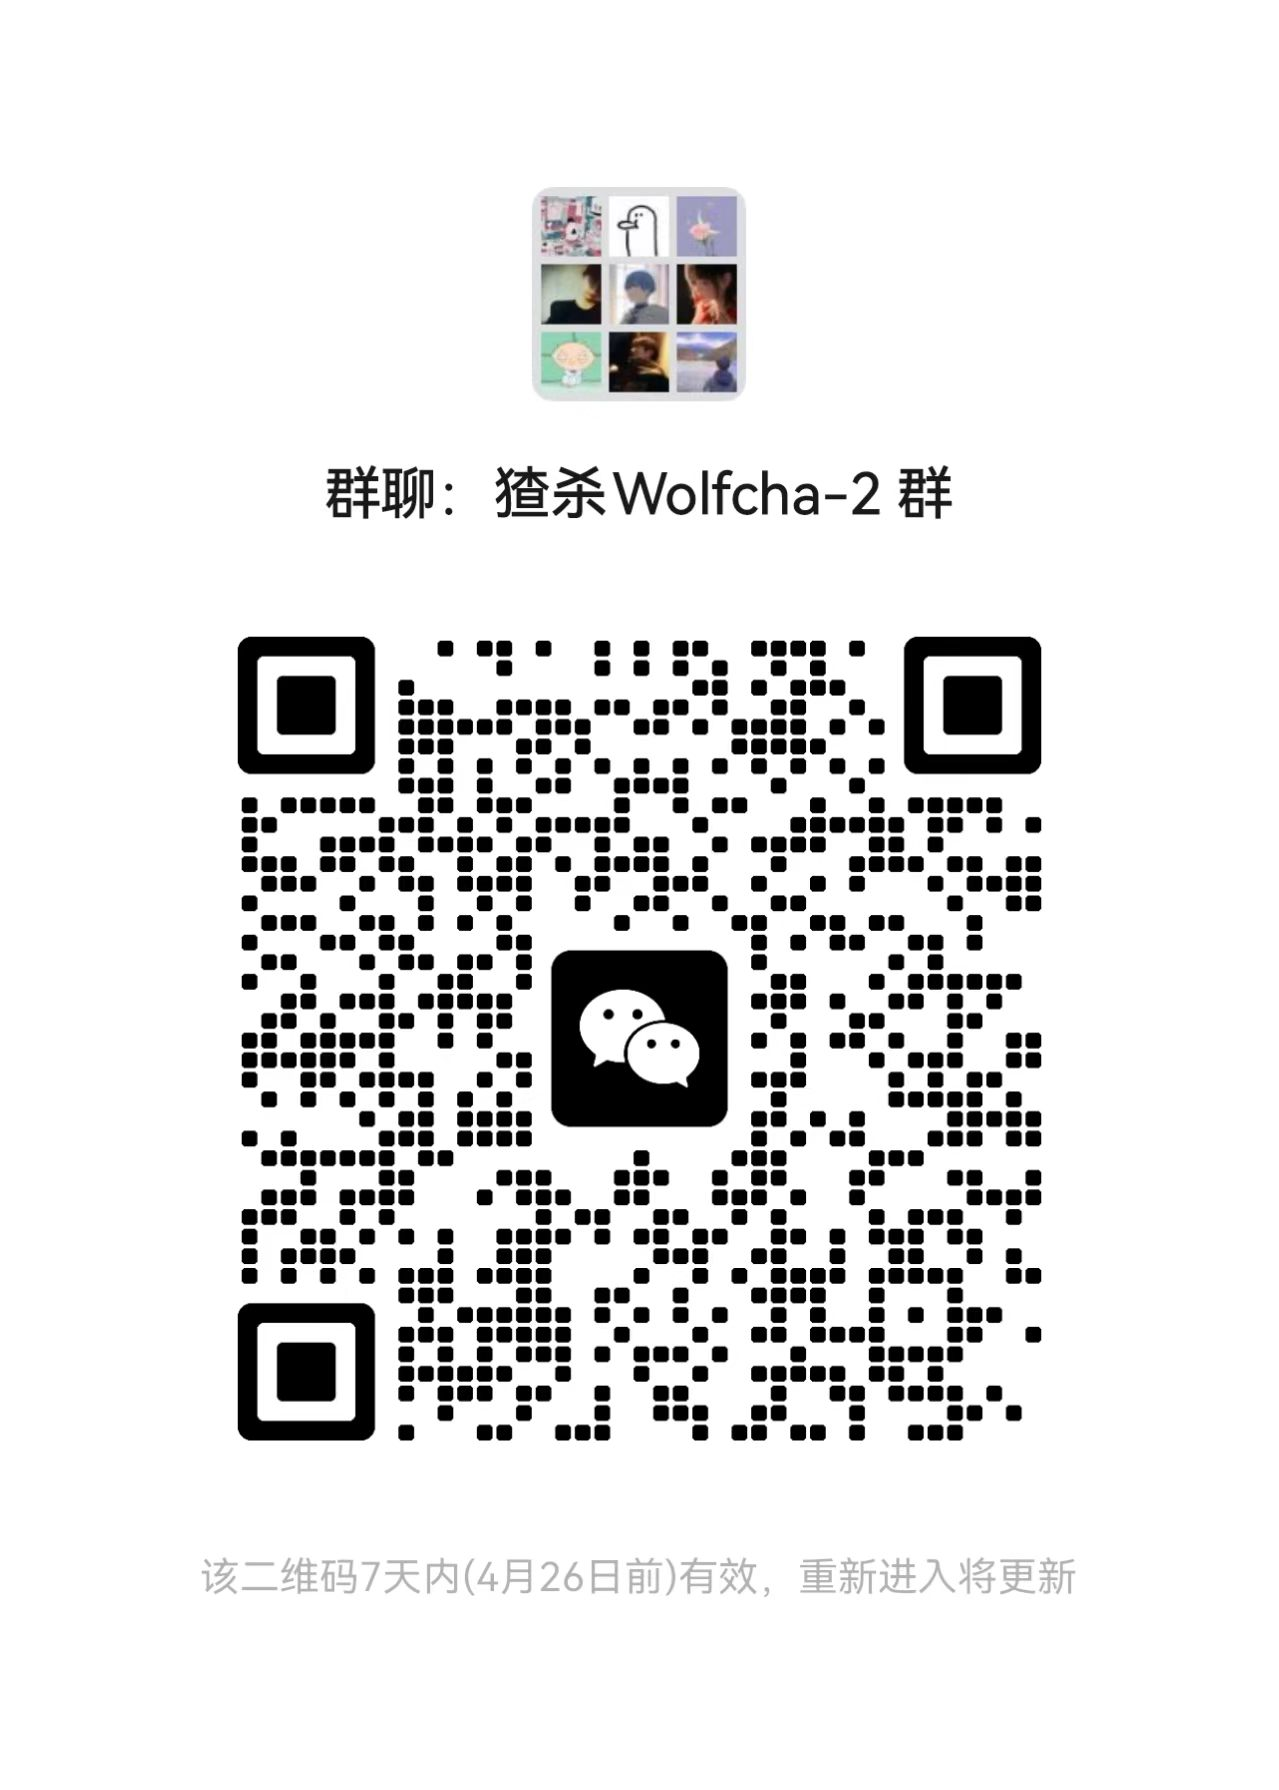
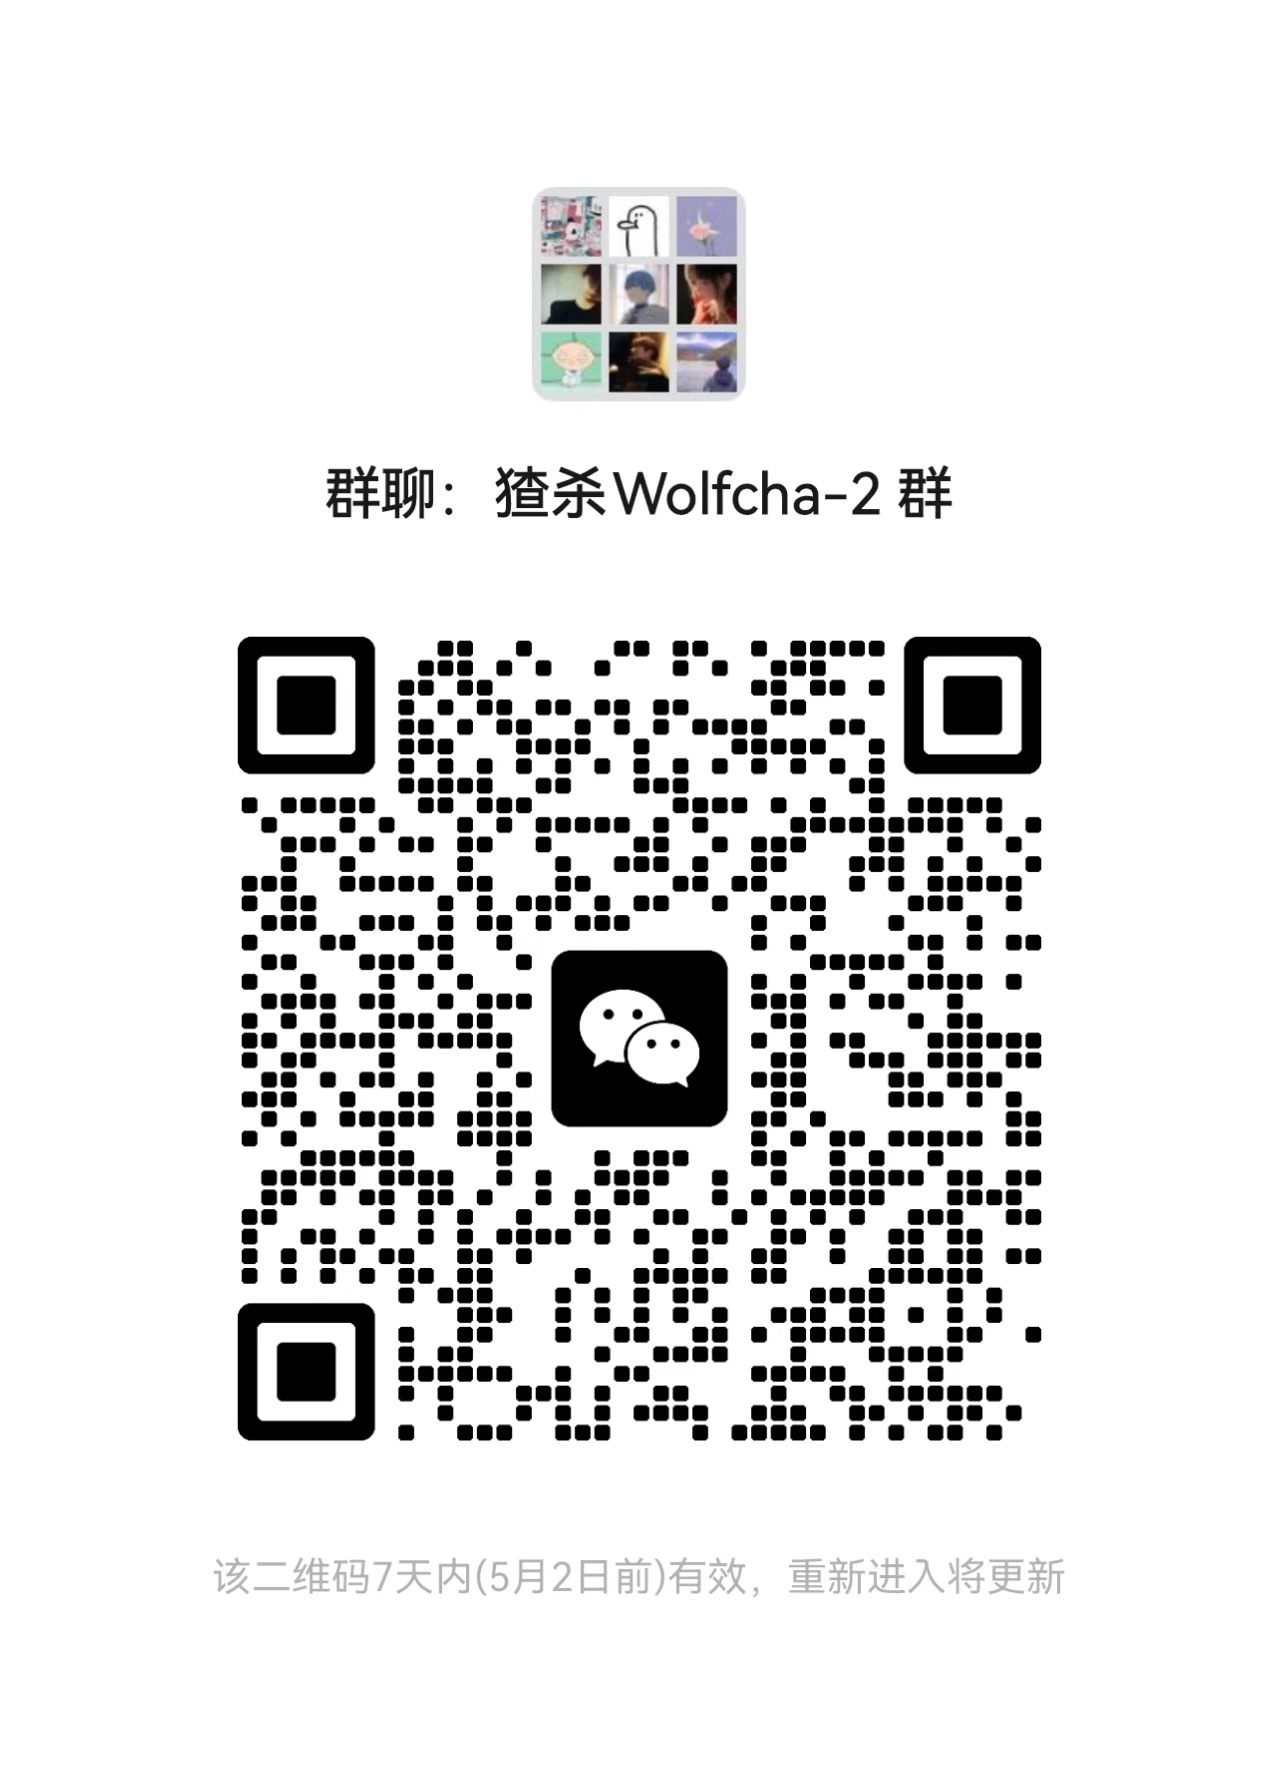
更新二维码，zenmux自定义key新增deepseek-v4-pro和deepseek/deepseek-v4-flash

diff --git a/src/types/game.ts b/src/types/game.ts
@@ -250,6 +250,8 @@ export const MODEL_IDS = {
     claudeHaiku45: "anthropic/claude-haiku-4.5",
     claudeSonnet45: "anthropic/claude-sonnet-4.5",
     claudeOpus45: "anthropic/claude-opus-4.5",
+    deepseekV4Pro: "deepseek/deepseek-v4-pro",
+    deepseekV4Flash: "deepseek/deepseek-v4-flash",
     grok4: "x-ai/grok-4",
     glm47: "z-ai/glm-4.7",
     minimaxM21: "minimax/minimax-m2.1",
@@ -322,6 +324,8 @@ export const ALL_MODELS: ModelRef[] = [
   { provider: "dashscope", model: MODEL_IDS.dashscope.deepseek },
   { provider: "zenmux", model: MODEL_IDS.zenmux.geminiFlashLite },
   { provider: "zenmux", model: MODEL_IDS.zenmux.deepseek },
+  { provider: "zenmux", model: MODEL_IDS.zenmux.deepseekV4Pro },
+  { provider: "zenmux", model: MODEL_IDS.zenmux.deepseekV4Flash },
   { provider: "zenmux", model: MODEL_IDS.zenmux.geminiFlashPreview },
   { provider: "zenmux", model: MODEL_IDS.zenmux.gpt52Chat },
   { provider: "zenmux", model: MODEL_IDS.zenmux.claudeHaiku45 },
